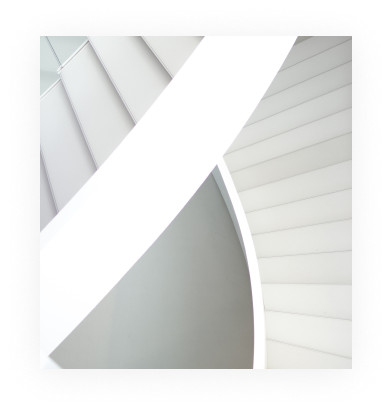
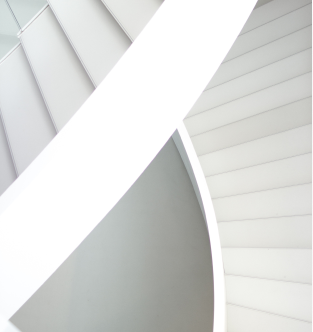
adaptiv

diff --git a/src/style/css/index.min.css b/src/style/css/index.min.css
@@ -1,2 +1,2 @@
-*{-webkit-box-sizing:border-box;box-sizing:border-box;margin:0;padding:0}.wrapper{max-width:1440px;margin:0 auto;font-family:'DM Sans', sans-serif}.container{max-width:85%;margin:0 auto}.nav-container{display:-webkit-box;display:-ms-flexbox;display:flex;-webkit-box-pack:justify;-ms-flex-pack:justify;justify-content:space-between;-webkit-box-align:center;-ms-flex-align:center;align-items:center;padding:64px 0 96px 0}.nav-container .nav__logo{width:135px;height:40px}.nav-container .nav__link{margin-right:40px;font-weight:bold;font-size:16px;text-decoration:none;color:#263640}.nav-container .nav__link:hover{color:#f90;border-bottom:2px solid #f90}.button{position:relative;padding:0.5em 2.5em 0.5em 1em;text-decoration:none;font-family:inherit;color:#fff;background:#f90;border:none;outline:none;cursor:pointer;-webkit-transition:background 0.4s ease-in-out;transition:background 0.4s ease-in-out}.button:hover{background:#ee6002}.button:before{content:"";position:absolute;top:calc(50% - 3px);right:15px;width:10px;height:2px;background:white;border-radius:2px;-webkit-transform:rotate(45deg);transform:rotate(45deg)}.button:after{content:"";position:absolute;top:calc(50% + 3px);right:15px;width:10px;height:2px;background:white;border-radius:2px;-webkit-transform:rotate(-45deg);transform:rotate(-45deg)}.link{position:relative;color:#f90;text-decoration:none;font-weight:500;font-size:16px}.link:before{content:"";position:absolute;top:calc(50% - 3px);left:150px;width:10px;height:2px;background:#f90;border-radius:2px;-webkit-transform:rotate(45deg);transform:rotate(45deg)}.link:after{content:"";position:absolute;top:calc(50% + 3px);left:150px;width:10px;height:2px;background:#f90;border-radius:2px;-webkit-transform:rotate(-45deg);transform:rotate(-45deg)}.hero__content{display:-webkit-box;display:-ms-flexbox;display:flex;-ms-flex-wrap:wrap;flex-wrap:wrap}.hero__images{position:relative;padding-left:153px}.hero__image-header{width:593px;height:750px;-webkit-box-shadow:-60px 85px 0px -9px #f5f8fa;box-shadow:-60px 85px 0px -9px #f5f8fa}.hero__image-resize{position:absolute;-webkit-transform:translate(-555px, 28px);transform:translate(-555px, 28px)}.content{padding-top:100px;width:470px}.content .content__header{text-transform:uppercase;color:#929a9f;font-size:14px;padding-bottom:15px}.content .content__title{color:#263640;line-height:45px;padding-bottom:15px}.content .content__text{color:#929a9f;line-height:28px;padding-bottom:38px;width:427px}.card{display:-webkit-box;display:-ms-flexbox;display:flex;-ms-flex-wrap:wrap;flex-wrap:wrap;-webkit-box-pack:justify;-ms-flex-pack:justify;justify-content:space-between;padding-bottom:168px}.card__wrapper{width:312px}.card__image{-webkit-transform:translate(100px 100px);transform:translate(100px 100px);-webkit-filter:drop-shadow(0px 4px 40px rgba(0,0,0,0.07));filter:drop-shadow(0px 4px 40px rgba(0,0,0,0.07))}.card__title{color:#263640;font-weight:bold;font-size:20px;line-height:30px;padding-bottom:24px}.card__text{color:#929a9f;font-size:16px;line-height:28px;padding-bottom:24px}.feauture__header{width:520px}.feauture__title{padding-bottom:16px;font-size:24px;color:#263640}.feauture__text{padding-bottom:80px;font-size:16px;line-height:28px;color:#929a9f}
+*{-webkit-box-sizing:border-box;box-sizing:border-box;margin:0;padding:0}.wrapper{max-width:1440px;margin:0 auto;font-family:'DM Sans', sans-serif}.container{max-width:85%;margin:0 auto}.nav-container{display:-webkit-box;display:-ms-flexbox;display:flex;-webkit-box-pack:justify;-ms-flex-pack:justify;justify-content:space-between;-webkit-box-align:center;-ms-flex-align:center;align-items:center;padding:64px 0 96px 0}.nav-container .nav__link{font-weight:bold;font-size:16px;text-decoration:none;color:#263640}.nav-container .nav__link:hover{color:#f90;border-bottom:2px solid #f90}.nav__link:not(:last-child){margin-right:40px}.button{position:relative;padding:0.5em 6em 0.5em 1em;text-decoration:none;font-family:inherit;color:#fff;background:#f90;border:none;outline:none;cursor:pointer;-webkit-transition:background 0.4s ease-in-out;transition:background 0.4s ease-in-out}.button__contact{width:12%}.button:hover{background:#ee6002}.button:before{content:"";position:absolute;top:calc(50% - 3px);right:15px;width:10px;height:2px;background:white;border-radius:2px;-webkit-transform:rotate(45deg);transform:rotate(45deg)}.button:after{content:"";position:absolute;top:calc(50% + 3px);right:15px;width:10px;height:2px;background:white;border-radius:2px;-webkit-transform:rotate(-45deg);transform:rotate(-45deg)}.link{position:relative;color:#f90;text-decoration:none;font-weight:500;font-size:16px}.link:before{content:"";position:absolute;top:calc(50% - 3px);left:150px;width:10px;height:2px;background:#f90;border-radius:2px;-webkit-transform:rotate(45deg);transform:rotate(45deg)}.link:after{content:"";position:absolute;top:calc(50% + 3px);left:150px;width:10px;height:2px;background:#f90;border-radius:2px;-webkit-transform:rotate(-45deg);transform:rotate(-45deg)}.hero__content{display:-webkit-box;display:-ms-flexbox;display:flex;-ms-flex-wrap:wrap;flex-wrap:wrap}.hero__images{width:48%;position:relative}.hero__image-header{width:593px;height:750px}.hero__image-resize{position:absolute;-webkit-transform:translate(-555px, 28px);transform:translate(-555px, 28px)}.content{display:-webkit-box;display:-ms-flexbox;display:flex;-webkit-box-orient:vertical;-webkit-box-direction:normal;-ms-flex-direction:column;flex-direction:column;padding-top:100px;width:470px}.content .content__header{text-transform:uppercase;color:#929a9f;font-size:14px;padding-bottom:15px}.content .content__title{color:#263640;line-height:45px;padding-bottom:15px}.content .content__text{color:#929a9f;line-height:28px;padding-bottom:38px;width:427px}.card{display:-webkit-box;display:-ms-flexbox;display:flex;-ms-flex-wrap:wrap;flex-wrap:wrap;-webkit-box-pack:justify;-ms-flex-pack:justify;justify-content:space-between;padding-bottom:168px}.card__wrapper{width:312px}.card__images{padding-bottom:24px}.card__title{color:#263640;font-weight:bold;font-size:20px;line-height:30px;padding-bottom:24px}.card__text{color:#929a9f;font-size:16px;line-height:28px;padding-bottom:24px}.feauture__header{width:520px}.feauture__title{padding-bottom:16px;font-size:24px;color:#263640}.feauture__text{padding-bottom:80px;font-size:16px;line-height:28px;color:#929a9f}
 /*# sourceMappingURL=index.min.css.map */

diff --git a/src/scss/components/_navigation.scss b/src/scss/components/_navigation.scss
@@ -3,13 +3,8 @@
     justify-content: space-between;
     align-items: center;
     padding: 64px 0 96px 0;
-   
-    .nav__logo {
-        width: 135px;
-        height: 40px;
-    }
+    
     .nav__link {
-        margin-right: 40px;
         font-weight: bold;
         font-size: 16px;
         text-decoration: none;
@@ -21,3 +16,8 @@
         }
     }
 }
+
+.nav__link:not(:last-child) {
+    margin-right: 40px;
+}
+

diff --git a/src/scss/components/_hero.scss b/src/scss/components/_hero.scss
@@ -4,8 +4,9 @@
 }
 
 .hero__images {
+    width: 48%;
     position: relative;
-    padding-left: 153px;
+    
 }
 
 .hero__image-header {
@@ -13,7 +14,7 @@
     height: 750px;
     // filter: drop-shadow(0px 4px 4px rgba(0, 0, 0, 0.25));
     // border-left: #f5f8fa solid 20px;
-    box-shadow: -60px 85px 0px -9px #f5f8fa;
+    // box-shadow: -60px 85px 0px -9px #f5f8fa;
 }
 
 .hero__image-resize {

diff --git a/src/scss/components/_button.scss b/src/scss/components/_button.scss
@@ -1,6 +1,6 @@
 .button {
     position: relative;
-    padding: 0.5em 2.5em 0.5em 1em;
+    padding: 0.5em 6em 0.5em 1em;
     text-decoration: none;
     font-family: inherit;
     color: $white-text;
@@ -9,6 +9,10 @@
     outline: none;
     cursor: pointer;
     transition: background 0.4s ease-in-out;
+}
+
+.button__contact {
+    width: 12%;
 }
 
 .button:hover {

diff --git a/src/scss/components/_card.scss b/src/scss/components/_card.scss
@@ -10,9 +10,8 @@
     
 }
 
-.card__image {
-    transform: translate(100px 100px);
-    filter: drop-shadow(0px 4px 40px rgba(0, 0, 0, 0.07));
+.card__images {
+    padding-bottom: 24px;
 }
 
 .card__title {

diff --git a/src/scss/components/_content.scss b/src/scss/components/_content.scss
@@ -1,4 +1,6 @@
 .content {
+    display: flex;
+    flex-direction: column;
     padding-top: 100px;
     width: 470px;
     
